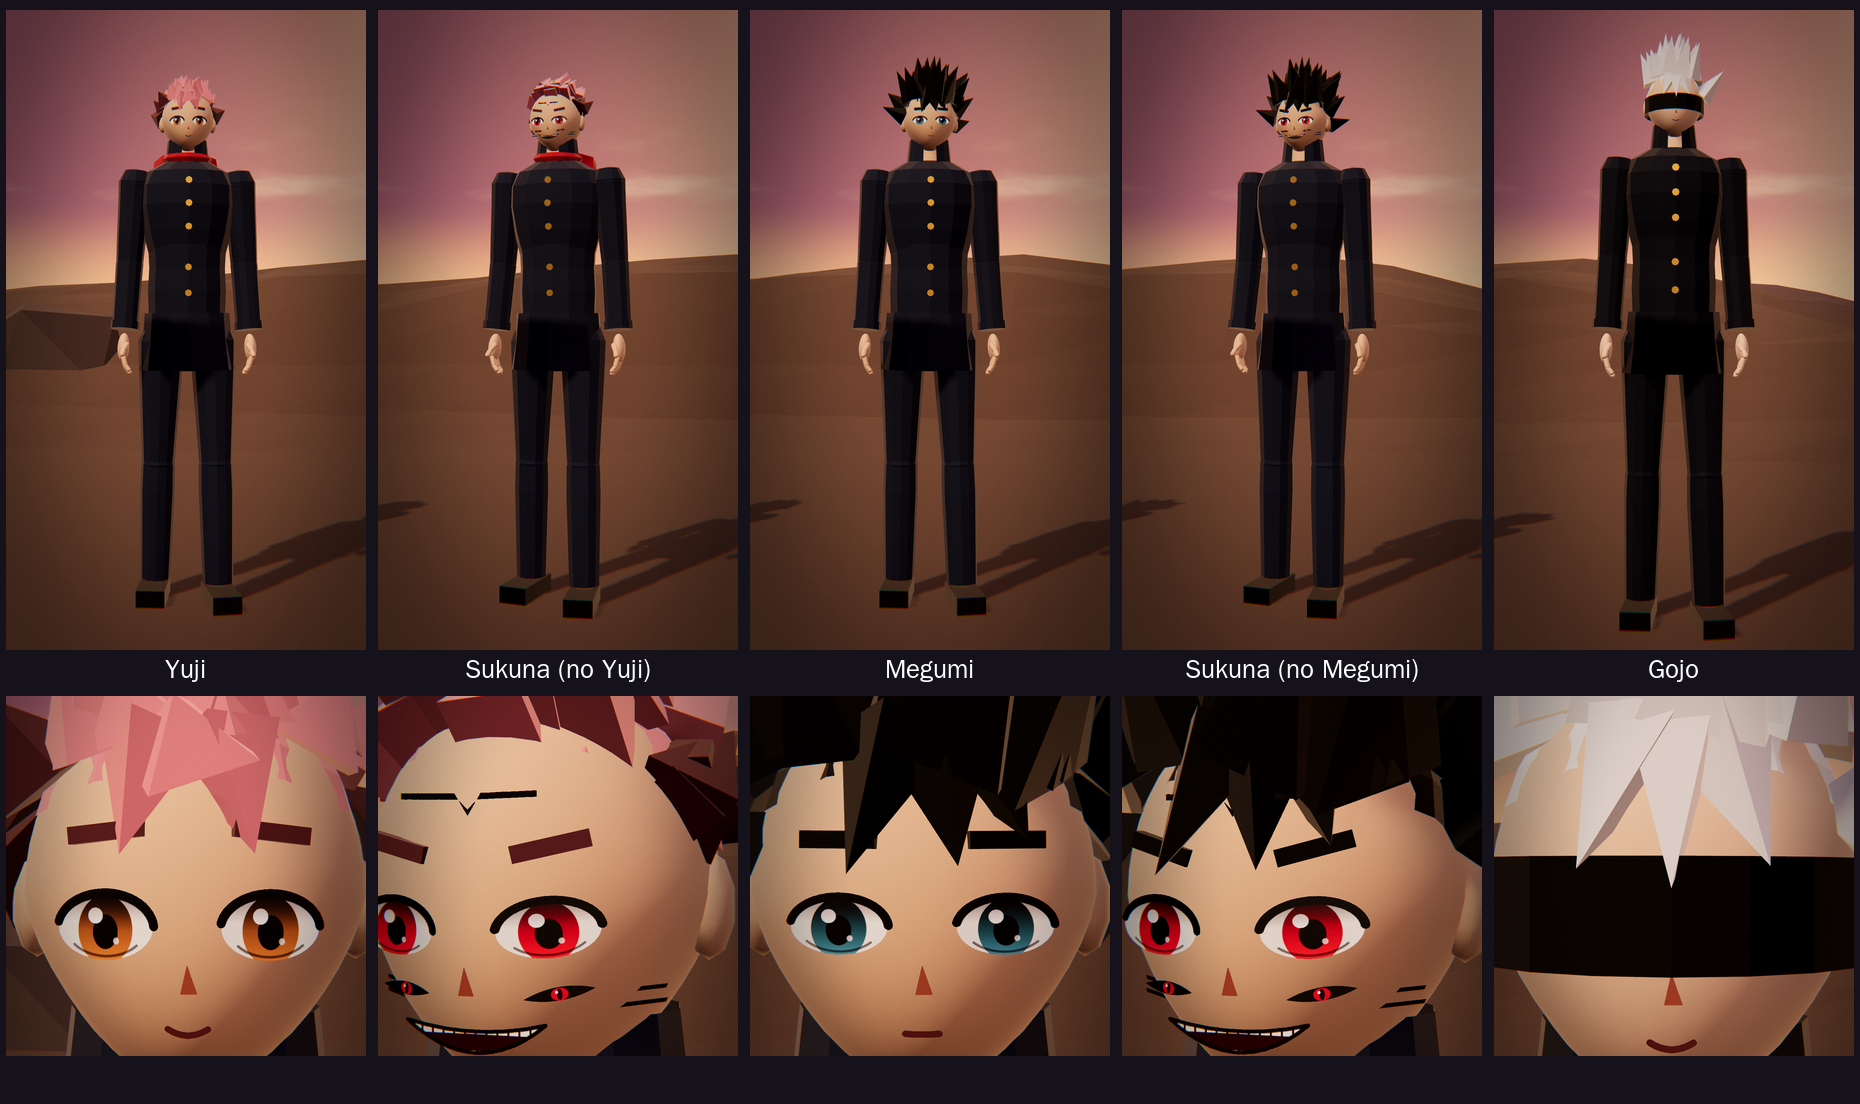
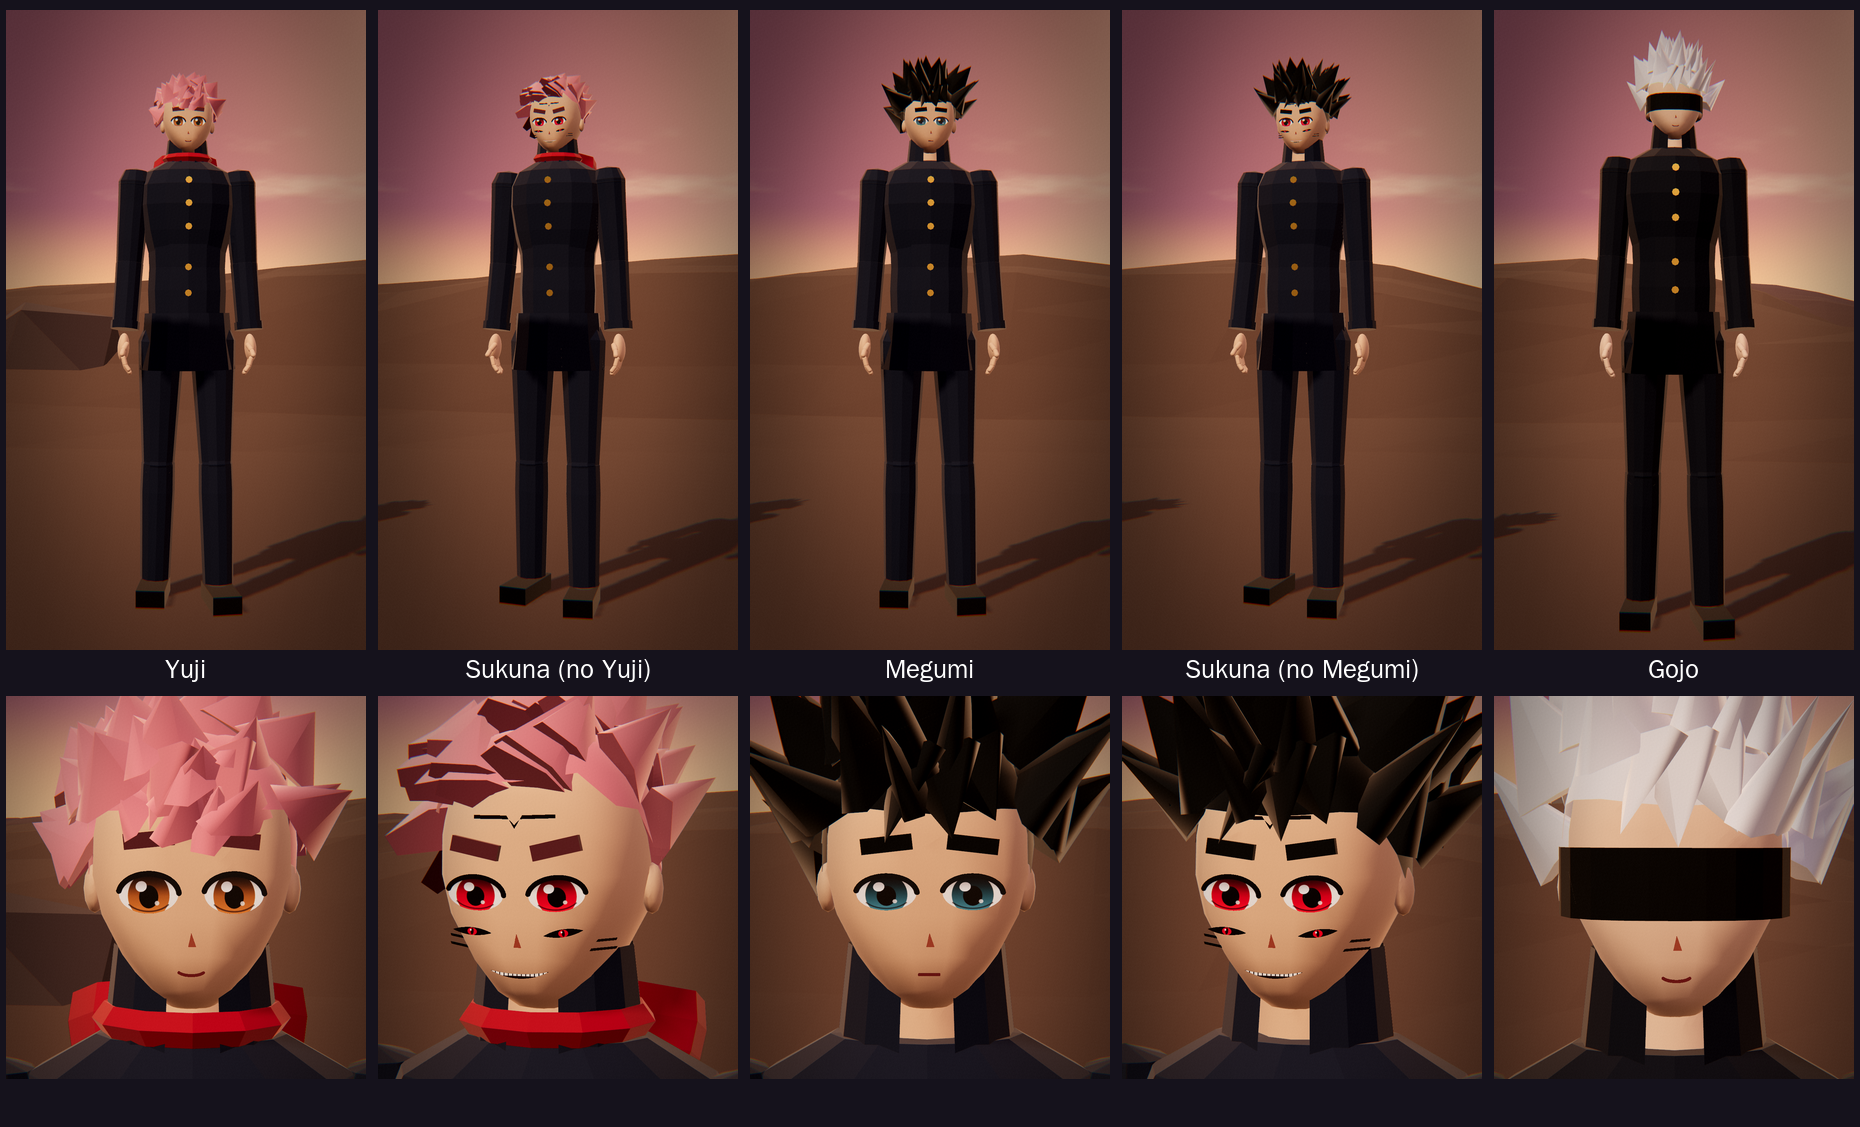
Rostos low-poly no formato da referência: quadrado arredondado, frente plana, mandíbula em escudo, sombreado liso, boca pequena
Claude-Session: https://claude.ai/code/session_01NohiMdkC2Su1SAJxQxprzv

diff --git a/tools/motor3d/lowpoly.js b/tools/motor3d/lowpoly.js
@@ -25,7 +25,7 @@ function olhoTex(iris, o = {}) {
     const cx = w / 2, cy = h * 0.56, rx = w * 0.4, ry = h * 0.34;
     c.save(); c.beginPath(); c.ellipse(cx, cy, rx, ry, 0, 0, Math.PI * 2); c.clip();
     c.fillStyle = o.esclera ?? "#fbf7f2"; c.fillRect(0, 0, w, h);
-    const ix = cx + (o.dx ?? 0), irx = w * (o.irisR ?? 0.23), iry = h * 0.36;
+    const ix = cx + (o.dx ?? 0), irx = w * (o.irisR ?? 0.28), iry = h * 0.4;
     const g = c.createLinearGradient(0, cy - iry, 0, cy + iry); g.addColorStop(0, corCSS(iris, -0.26)); g.addColorStop(0.55, corCSS(iris)); g.addColorStop(1, corCSS(iris, 0.2));
     c.fillStyle = g; c.beginPath(); c.ellipse(ix, cy + h * 0.03, irx, iry, 0, 0, Math.PI * 2); c.fill();
     c.fillStyle = "#120a0c"; c.beginPath();
@@ -44,16 +44,14 @@ const BOCAT = {};
 function bocaTex(tipo) {
   if (BOCAT[tipo]) return BOCAT[tipo];
   return (BOCAT[tipo] = canvasTex(256, 128, (c, w, h) => {
-    c.clearRect(0, 0, w, h); c.lineCap = "round"; const cx = w / 2, cy = h / 2;
-    if (tipo === "linha") { c.strokeStyle = "#5a2626"; c.lineWidth = 12; c.beginPath(); c.moveTo(cx - 32, cy); c.quadraticCurveTo(cx, cy + 3, cx + 32, cy); c.stroke(); }
-    else if (tipo === "sorriso") { c.strokeStyle = "#5a2626"; c.lineWidth = 12; c.beginPath(); c.moveTo(cx - 38, cy - 8); c.quadraticCurveTo(cx, cy + 16, cx + 38, cy - 8); c.stroke(); }
-    else if (tipo === "triste") { c.strokeStyle = "#5a2626"; c.lineWidth = 8; c.beginPath(); c.moveTo(cx - 28, cy + 6); c.quadraticCurveTo(cx, cy - 8, cx + 28, cy + 6); c.stroke(); }
-    else if (tipo === "aberta") { c.fillStyle = "#4a1418"; c.beginPath(); c.ellipse(cx, cy + 4, 28, 22, 0, 0, Math.PI * 2); c.fill(); c.fillStyle = "#c8586a"; c.beginPath(); c.ellipse(cx, cy + 16, 17, 8, 0, 0, Math.PI * 2); c.fill(); c.fillStyle = "#f4f0ea"; c.fillRect(cx - 18, cy - 15, 36, 7); }
-    else if (tipo === "risada") { // sorriso enorme com dentes (Sukuna)
-      const L = cx - 96, R = cx + 96, Y = cy - 22;
-      c.fillStyle = "#3a0c10"; c.beginPath(); c.moveTo(L, Y); c.quadraticCurveTo(cx, cy + 56, R, Y); c.quadraticCurveTo(cx, cy + 2, L, Y); c.fill();
-      c.save(); c.clip(); c.fillStyle = "#f6f2ea"; for (let i = 0; i < 12; i++) c.fillRect(cx - 88 + i * 15, cy - 22, 12, 15); for (let i = 0; i < 10; i++) c.fillRect(cx - 72 + i * 15, cy + 14, 12, 14); c.restore();
-      c.strokeStyle = "#1a0608"; c.lineWidth = 5; c.beginPath(); c.moveTo(L, Y); c.quadraticCurveTo(cx, cy + 56, R, Y); c.stroke(); c.beginPath(); c.moveTo(L, Y); c.quadraticCurveTo(cx, cy + 2, R, Y); c.stroke();
+    c.clearRect(0, 0, w, h); c.lineCap = "round"; c.lineJoin = "round"; const cx = w / 2, cy = h / 2, cor = "#6e2a28";
+    if (tipo === "linha") { c.fillStyle = cor; c.beginPath(); c.roundRect(cx - 52, cy - 7, 104, 14, 4); c.fill(); }
+    else if (tipo === "sorriso") { c.strokeStyle = cor; c.lineWidth = 14; c.beginPath(); c.moveTo(cx - 58, cy - 9); c.quadraticCurveTo(cx - 40, cy + 4, cx, cy + 5); c.quadraticCurveTo(cx + 40, cy + 4, cx + 58, cy - 9); c.stroke(); }
+    else if (tipo === "triste") { c.strokeStyle = cor; c.lineWidth = 13; c.beginPath(); c.moveTo(cx - 48, cy + 8); c.quadraticCurveTo(cx, cy - 8, cx + 48, cy + 8); c.stroke(); }
+    else if (tipo === "aberta") { c.fillStyle = "#3a0e12"; c.beginPath(); c.ellipse(cx, cy + 2, 34, 22, 0, 0, Math.PI * 2); c.fill(); c.fillStyle = "#b8485a"; c.beginPath(); c.ellipse(cx, cy + 14, 22, 9, 0, 0, Math.PI * 2); c.fill(); c.fillStyle = "#f2ede6"; c.beginPath(); c.roundRect(cx - 22, cy - 18, 44, 8, 3); c.fill(); }
+    else if (tipo === "risada") { // sorriso de canto a canto do Sukuna, fino, com a fileira de dentes
+      c.fillStyle = "#2a0a0e"; c.beginPath(); c.moveTo(cx - 96, cy - 14); c.quadraticCurveTo(cx, cy + 34, cx + 96, cy - 14); c.quadraticCurveTo(cx, cy + 6, cx - 96, cy - 14); c.fill();
+      c.save(); c.clip(); c.fillStyle = "#f4efe6"; for (let i = 0; i < 13; i++) c.fillRect(cx - 90 + i * 14, cy - 12, 11, 14); c.restore();
     }
   }));
 }
@@ -65,16 +63,30 @@ const bochechaTex = canvasTex(256, 128, (c, w, h) => { c.clearRect(0, 0, w, h); 
 const testaTex = canvasTex(256, 64, (c, w, h) => { c.clearRect(0, 0, w, h); c.fillStyle = "#16090c"; c.beginPath(); c.moveTo(14, 20); c.lineTo(w / 2 - 22, 22); c.lineTo(w / 2, 58); c.lineTo(w / 2 + 22, 22); c.lineTo(w - 14, 20); c.lineTo(w - 14, 30); c.lineTo(w / 2 + 16, 32); c.lineTo(w / 2, 48); c.lineTo(w / 2 - 16, 32); c.lineTo(14, 30); c.closePath(); c.fill(); });
 
 // ---------------------------------------------------------------- cabeça e cabelo
-function headGeoLP(o = {}) {
-  const g = new THREE.SphereGeometry(1, o.ws ?? 36, o.hs ?? 26);
-  const jaw = o.jaw ?? 0.38, chin = o.chin ?? 0.08;
-  deform(g, (v) => { if (v.y < 0) { const k = Math.pow(-v.y, 1.3); v.x *= 1 - jaw * k; v.z += chin * k * Math.max(0, v.z); } if (v.z < 0) v.z *= 1.05; });
-  g.scale(o.sx ?? 0.083, o.sy ?? 0.1, o.sz ?? 0.095); g.translate(0, o.cy ?? 0.11, 0); g.computeVertexNormals(); return g;
+// cabeça no formato da referência: quadrado arredondado (superelipsoide), frente reta, laterais retas e
+// mandíbula que afina num queixo rombudo (escudo). Facetada: a frente quase plana parece lisa, as laterais mostram os cortes.
+const HEAD = { a: 0.078, b: 0.106, c: 0.088, n: 2.9, cy: 0.11, jawY: -0.1, jaw: 0.5, frente: 0.86 };
+function superDir(d, n) { const s_ = Math.pow(Math.pow(Math.abs(d.x), n) + Math.pow(Math.abs(d.y), n) + Math.pow(Math.abs(d.z), n), -1 / n); return d.multiplyScalar(s_); }
+function headUnit(v, H = HEAD) { // ponto unitário da cabeça (antes da escala), com a mandíbula em escudo
+  superDir(v.normalize(), H.n);
+  if (v.z > H.frente) v.z = H.frente; // frente do rosto plana (olhos, nariz e boca num plano só, como na referência)
+  if (v.y < H.jawY) { const k = (H.jawY - v.y) / (1 + H.jawY); v.x *= 1 - H.jaw * Math.pow(k, 1.15); if (v.z < 0) v.z *= 1 - 0.3 * k; else v.z *= 1 - 0.08 * k; }
+  if (v.z < 0) v.z *= 1.04;
+  return v;
 }
-function espeto(parent, base, dir, len, r, mat) {
-  const geo = new THREE.ConeGeometry(r, len, 4, 1); geo.translate(0, len / 2, 0);
+function headGeoLP(o = {}) {
+  const H = { ...HEAD, ...o }, g = new THREE.SphereGeometry(1, o.ws ?? 14, o.hs ?? 12);
+  deform(g, (v) => { headUnit(v, H); v.set(v.x * H.a, H.cy + v.y * H.b, v.z * H.c); });
+  return g;
+}
+function espeto(parent, base, dir, len, r, mat, centro = null) {
+  const geo = new THREE.ConeGeometry(r, len, 6, 1); geo.translate(0, len / 2, 0);
   const m = mesh(geo, mat, base.x, base.y, base.z, parent);
-  m.quaternion.setFromUnitVectors(V3_(0, 1, 0), dir); m.rotateY(hash(base.x * 97.1 + base.z * 31.7) * 3);
+  m.quaternion.setFromUnitVectors(V3_(0, 1, 0), dir);
+  if (centro) { // chapa: o lado largo fica tangente à cabeça (a mecha deita em vez de virar espinho)
+    const rad = base.clone().sub(centro).normalize(), t = V3_().crossVectors(dir, rad); if (t.lengthSq() > 1e-6) { t.normalize(); const xw = V3_(1, 0, 0).applyQuaternion(m.quaternion); m.rotateY(Math.atan2(V3_().crossVectors(xw, t).dot(dir), xw.dot(t)) + Math.PI / 4); }
+    m.scale.set(1.45, 1, 0.55);
+  } else m.rotateY(hash(base.x * 97.1 + base.z * 31.7) * 3);
   return m;
 }
 function estiloDir(estilo, nrm, r) {
@@ -87,22 +99,32 @@ function estiloDir(estilo, nrm, r) {
   return v.normalize();
 }
 function cabeloLP(head, o) {
-  const ax = 0.086, ay = 0.108, az = 0.099, cy = 0.11, seed = o.seed ?? 0;
+  const H = HEAD, cy = H.cy, seed = o.seed ?? 0, fo = o.fofo ?? 1.05;
   const hg = grp(head, 0, cy, 0), hr = grp(hg, 0, -cy, 0); head.userData.hairG = hg; head.userData.hairLong = false;
-  const m = LPmat(o.cor, { rim: 1.2 }), m2 = o.raiz != null ? LPmat(o.raiz, { rim: 1 }) : m;
-  const capG = new THREE.SphereGeometry(1, 12, 7, 0, Math.PI * 2, 0, Math.PI * (o.capA ?? 0.44)); capG.scale(ax, ay, az);
-  const capM = mesh(capG, m, 0, cy, -0.003, hr); capM.rotation.x = o.capTilt ?? -0.4;
-  const P = (th, ph, k = 1) => V3_(Math.sin(th) * Math.sin(ph) * ax * k, cy + Math.cos(th) * ay * k, Math.sin(th) * Math.cos(ph) * az * k);
-  const n = o.n ?? 40, thMin = o.thMin ?? 0.06, thMax = o.thMax ?? 0.44;
-  for (let i = 0; i < n; i++) {
+  const m = LPmat(o.cor, { rim: 1.2, liso: true }), m2 = o.raiz != null ? LPmat(o.raiz, { rim: 1, liso: true }) : m;
+  const lf = o.linhaFrente ?? 0.4, lt = o.linhaTras ?? -0.4, acima = (u) => u.y > (lf + lt) / 2 + ((lf - lt) / 2) * u.z;
+  const toW = (u, k = 1) => V3_(u.x * H.a * k, cy + u.y * H.b * k, u.z * H.c * k);
+  // calota: a própria superfície da cabeça, um pouco maior, só acima da linha do cabelo
+  const cg = new THREE.SphereGeometry(1, 20, 16), pos = cg.attributes.position, U = [];
+  for (let i = 0; i < pos.count; i++) { const u = headUnit(V3_(pos.getX(i), pos.getY(i), pos.getZ(i))); U.push(u.clone()); const w = toW(u, fo); pos.setXYZ(i, w.x, w.y, w.z); }
+  const idx = cg.index.array, keep = [];
+  for (let i = 0; i < idx.length; i += 3) if (acima(U[idx[i]]) && acima(U[idx[i + 1]]) && acima(U[idx[i + 2]])) keep.push(idx[i], idx[i + 1], idx[i + 2]);
+  cg.setIndex(keep); cg.computeVertexNormals(); mesh(cg, LPmat(o.cor, { rim: 1.2, side: THREE.DoubleSide, liso: true }), 0, 0, 0, hr);
+  // espetos facetados nascendo da calota
+  const n = o.n ?? 40, thMin = o.thMin ?? 0.06, thMax = o.thMax ?? 0.5;
+  let made = 0;
+  for (let i = 0; i < n * 4 && made < n; i++) {
     const r1 = hash(i * 3.7 + seed), r2 = hash(i * 5.3 + seed), r3 = hash(i * 9.1 + seed);
-    const ph = (i / n) * Math.PI * 2 * 2.618 + (r1 - 0.5) * 0.5, front = Math.cos(ph) > 0.45;
-    const th = (thMin + r2 * (thMax - thMin) * (front ? o.frontK ?? 0.55 : 1)) * Math.PI;
-    const base = P(th, ph, 0.96), nrm = base.clone().sub(V3_(0, cy, 0)).normalize();
-    const len = (o.len ?? 0.07) * (0.7 + r3 * 0.6), rad = (o.r ?? 0.03) * (0.75 + r1 * 0.5);
-    espeto(hr, base, estiloDir(o.estilo, nrm, r3), len, rad, o.raiz != null && th > 0.33 * Math.PI && !front ? m2 : m);
+    const ph = i * 2.39996 + (r1 - 0.5) * 0.4, th = (thMin + r2 * (thMax - thMin)) * Math.PI;
+    const u = headUnit(V3_(Math.sin(th) * Math.sin(ph), Math.cos(th), Math.sin(th) * Math.cos(ph)));
+    if (!acima(u)) continue;
+    made++;
+    const front = u.z > 0.55, base = toW(u, fo * 0.98), nrm = u.clone().normalize();
+    const len = (o.len ?? 0.07) * (0.7 + r3 * 0.6) * (front ? o.frontLen ?? 1 : 1), rad = (o.r ?? 0.03) * (0.75 + r1 * 0.5);
+    espeto(hr, base, estiloDir(o.estilo, nrm, r3), len, rad, o.raiz != null && u.y < 0.15 && !front ? m2 : m, o.chapa === false ? null : V3_(0, cy, 0));
   }
-  (o.franja || []).forEach(([ph, len, lado]) => { const base = P(0.27 * Math.PI, ph, 0.98); espeto(hr, base, V3_(Math.sin(ph) * 0.6 + lado, -1, 0.5).normalize(), len, o.rFranja ?? 0.026, m); });
+  // franja: mechas caindo na testa
+  (o.franja || []).forEach(([ph, len, lado]) => { const u = headUnit(V3_(Math.sin(0.26 * Math.PI) * Math.sin(ph), Math.cos(0.26 * Math.PI), Math.sin(0.26 * Math.PI) * Math.cos(ph))); espeto(hr, toW(u, fo), V3_(Math.sin(ph) * 0.6 + lado, -1, 0.45).normalize(), len, o.rFranja ?? 0.026, m, o.chapa === false ? null : V3_(0, cy, 0)); });
   return hg;
 }
 
@@ -111,7 +133,7 @@ function perfilR(pts, y) { for (let i = 0; i < pts.length - 1; i++) if (y <= pts
 function pessoaLP(o = {}) {
   const P = { pele: 0xf2c8a6, olho: "#3a5a6a", roupa: 0x1b2232, calca: 0x1b2232, sapato: 0x141418, sola: 0xe4e0d8, botao: 0xd4aa50, seed: 1, scale: 1, ...o };
   const S = skeleton({ ...HUMANO, ...(o.dims || {}) });
-  const skin = LPmat(P.pele, { rim: 0.5, liso: true }), roupa = LPmat(P.roupa, { rim: 1 }), roupa2 = LPmat(P.roupa, { rim: 1, side: THREE.DoubleSide }), calca = LPmat(P.calca), sapato = LPmat(P.sapato, { rough: 0.5 }), botao = LPmat(P.botao, { metal: 0.6, rough: 0.35, rim: 0.4 });
+  const skin = LPmat(P.pele, { rim: 0.5, liso: true }), skinF = LPmat(P.pele, { rim: 0.5 }), roupa = LPmat(P.roupa, { rim: 1 }), roupa2 = LPmat(P.roupa, { rim: 1, side: THREE.DoubleSide }), calca = LPmat(P.calca), sapato = LPmat(P.sapato, { rough: 0.5 }), botao = LPmat(P.botao, { metal: 0.6, rough: 0.35, rim: 0.4 });
   const R = 12;
   // quadril, pernas e tênis
   mesh(sph(1, R, 6), calca, 0, -0.01, 0, S.hips).scale.set(0.15, 0.11, 0.11);
@@ -149,24 +171,24 @@ function pessoaLP(o = {}) {
   mesh(cyl(0.042, 0.048, 0.1, R), skin, 0, 0.03, 0, S.neck);
   const headM = mesh(headGeoLP(P.cabeca || {}), skin, 0, 0, 0);
   const zAt = (x, y) => surfZ(headM, x, y);
-  [-1, 1].forEach((k) => { const ea = mesh(sph(1, 6, 5), skin, k * 0.079, 0.104, -0.006); ea.scale.set(0.013, 0.026, 0.018); S.head.add(ea); });
+  [-1, 1].forEach((k) => { const ea = mesh(sph(1, 8, 6), skin, k * 0.078, 0.098, -0.012); ea.scale.set(0.009, 0.02, 0.013); S.head.add(ea); });
   // rosto: olhos (decalque), sobrancelhas, nariz, bocas
-  const EX = 0.035, EY = 0.1;
-  const olhos = P.venda ? [] : [-1, 1].map((k) => { const g = grp(S.head, k * EX, EY, zAt(k * EX, EY) + 0.003); g.rotation.set(0, k * 0.34, k * (P.olhoInc ?? 0)); decal(g, olhoTex(P.olho, { fenda: P.fenda }), 0.055, 0.041 * (P.olhoAlt ?? 1), 0, 0, 0); return g; });
-  const brows = [-1, 1].map((k) => { const y = EY + 0.035, rz0 = k * -0.1; const b = mesh(box(0.034, 0.0075, 0.006), LPmat(P.sobrancelha ?? (P.cabelo ? P.cabelo.cor : 0x222222)), k * EX, y, zAt(k * EX, y) + 0.002); b.rotation.set(0, k * 0.32, rz0); b.userData = { y0: y, rz0 }; S.head.add(b); b.visible = !P.venda; return b; });
-  decal(S.head, narizTex, 0.016, 0.018, 0, 0.076, zAt(0, 0.076) + 0.004);
-  const MY = 0.052, mz = zAt(0, MY) + 0.003;
+  const EX = 0.031, EY = 0.1;
+  const olhos = P.venda ? [] : [-1, 1].map((k) => { const g = grp(S.head, k * EX, EY, zAt(k * EX, EY) + 0.003); g.rotation.set(0, 0, k * (P.olhoInc ?? 0)); decal(g, olhoTex(P.olho, { fenda: P.fenda }), 0.054, 0.042 * (P.olhoAlt ?? 1), 0, 0, 0); return g; });
+  const brows = [-1, 1].map((k) => { const y = EY + 0.034, rz0 = k * -(0.1 + (P.brava ?? 0) * 0.25); const b = mesh(box(0.037, 0.0115, 0.006), LPmat(P.sobrancelha ?? (P.cabelo ? P.cabelo.cor : 0x222222)), k * EX, y, zAt(k * EX, y) + 0.002); b.rotation.set(0, 0, rz0); b.userData = { y0: y, rz0 }; S.head.add(b); b.visible = !P.venda; return b; });
+  decal(S.head, narizTex, 0.013, 0.015, 0, 0.064, zAt(0, 0.064) + 0.004);
+  const MY = 0.038, mz = zAt(0, MY) + 0.003;
   const bocas = {};
-  ["linha", "sorriso", "triste", "aberta"].forEach((t) => (bocas[t] = decal(S.head, bocaTex(t), 0.058, 0.029, 0, MY, mz)));
-  bocas.risada = decal(S.head, bocaTex("risada"), 0.086, 0.043, 0, MY - 0.002, mz + 0.001);
+  ["linha", "sorriso", "triste", "aberta"].forEach((t) => (bocas[t] = decal(S.head, bocaTex(t), 0.04, 0.02, 0, MY, mz)));
+  bocas.risada = decal(S.head, bocaTex("risada"), 0.062, 0.031, 0, MY, mz + 0.001);
   let extras = null;
   if (P.sukuna) { // marcas do Sukuna
-    extras = [-1, 1].map((k) => { const y = EY - 0.03, g = grp(S.head, k * 0.036, y, zAt(k * 0.036, y) + 0.003); g.rotation.set(0, k * 0.4, k * 0.12); decal(g, olhoExtraTex, 0.034, 0.013, 0, 0, 0); return g; });
-    [-1, 1].forEach((k) => { const g = grp(S.head, k * 0.057, 0.064, zAt(k * 0.057, 0.064) + 0.004); g.rotation.set(0, k * 0.62, 0); g.scale.x = k; decal(g, bochechaTex, 0.04, 0.02, 0, 0, 0); });
+    extras = [-1, 1].map((k) => { const y = EY - 0.03, g = grp(S.head, k * 0.035, y, zAt(k * 0.035, y) + 0.003); g.rotation.set(0, 0, k * 0.12); decal(g, olhoExtraTex, 0.034, 0.013, 0, 0, 0); return g; });
+    [-1, 1].forEach((k) => { const g = grp(S.head, k * 0.052, 0.058, zAt(k * 0.052, 0.058) + 0.004); g.rotation.set(0, k * 0.45, 0); g.scale.x = k; decal(g, bochechaTex, 0.04, 0.02, 0, 0, 0); });
     decal(S.head, testaTex, 0.07, 0.017, 0, EY + 0.052, zAt(0, EY + 0.052) + 0.004);
   }
   S.head.add(headM);
-  if (P.venda) { const v = mesh(new THREE.CylinderGeometry(1, 1, 0.046, 18, 1, true), LPmat(0x121216, { side: THREE.DoubleSide, rim: 0.6 }), 0, EY + 0.004, 0, S.head); v.scale.set(0.088, 1, 0.103); }
+  if (P.venda) { const vg = new THREE.CylinderGeometry(1, 1, 0.048, 28, 1, true); deform(vg, (v) => { const d = V3_(v.x, 0, v.z).normalize(), k_ = Math.pow(Math.pow(Math.abs(d.x), HEAD.n) + Math.pow(Math.abs(d.z), HEAD.n), -1 / HEAD.n); v.x = d.x * k_ * HEAD.a * 1.07; v.z = d.z * k_ * HEAD.c * (d.z < 0 ? 1.12 : 1.08); }); mesh(vg, LPmat(0x121216, { side: THREE.DoubleSide, rim: 0.6 }), 0, EY + 0.004, 0, S.head); }
   if (P.cabelo) cabeloLP(S.head, P.cabelo);
   S.head.scale.setScalar(P.cabecaEscala ?? 1.12); // cabeça um pouco maior (proporção de anime)
   S.root.scale.setScalar(P.scale);
@@ -192,7 +214,7 @@ function rostoLP(p, t, f = {}) {
 // ---------------------------------------------------------------- elenco: Jujutsu Kaisen (desenho próprio low-poly)
 const JJK = { navy: 0x232b3e, navy2: 0x181e2c, botao: 0xd4aa50 };
 function yujiLP(o = {}) { return pessoaLP({ seed: 11, pele: 0xf3c8a6, olho: "#a8642e", capuz: 0xb3262c, roupa: JJK.navy, calca: JJK.navy, sobrancelha: 0x6a3a40, cabelo: { cor: 0xe8909c, raiz: 0x5a2c34, estilo: "curto", n: 60, len: 0.042, r: 0.028, thMax: 0.5, franja: [[-0.24, 0.058, -0.12], [0.24, 0.058, 0.12]], seed: 3 }, ...o }); }
-function sukunaYujiLP(o = {}) { return yujiLP({ seed: 12, olho: "#c41e2a", olhoAlt: 0.85, olhoInc: 0.08, sukuna: true, cabelo: { cor: 0xe8909c, raiz: 0x5a2c34, estilo: "pratras", n: 44, len: 0.075, r: 0.03, capTilt: -0.55, seed: 4 }, ...o }); }
-function megumiLP(o = {}) { return pessoaLP({ seed: 21, pele: 0xf1c6a4, olho: "#2f5a66", olhoAlt: 0.86, roupa: JJK.navy, calca: JJK.navy, sobrancelha: 0x101216, cabelo: { cor: 0x101216, estilo: "ourico", n: 52, len: 0.085, r: 0.032, thMax: 0.5, franja: [[-0.18, 0.07, -0.22], [0.08, 0.064, 0.12], [0.34, 0.056, 0.3]], seed: 7 }, ...o }); }
+function sukunaYujiLP(o = {}) { return yujiLP({ seed: 12, olho: "#c41e2a", olhoAlt: 0.85, olhoInc: 0.08, sukuna: true, cabelo: { cor: 0xe8909c, raiz: 0x5a2c34, estilo: "pratras", n: 44, len: 0.075, r: 0.03, linhaFrente: 0.58, seed: 4 }, ...o }); }
+function megumiLP(o = {}) { return pessoaLP({ seed: 21, pele: 0xf1c6a4, olho: "#2f5a66", olhoAlt: 0.86, brava: 0.5, roupa: JJK.navy, calca: JJK.navy, sobrancelha: 0x101216, cabelo: { cor: 0x101216, estilo: "ourico", n: 52, len: 0.085, r: 0.032, thMax: 0.5, franja: [[-0.18, 0.07, -0.22], [0.08, 0.064, 0.12], [0.34, 0.056, 0.3]], seed: 7 }, ...o }); }
 function sukunaMegumiLP(o = {}) { return megumiLP({ seed: 22, olho: "#c41e2a", olhoInc: 0.08, sukuna: true, ...o }); }
 function gojoLP(o = {}) { return pessoaLP({ seed: 31, pele: 0xf4d0b4, venda: true, roupa: JJK.navy2, calca: JJK.navy2, scale: 1.08, cabelo: { cor: 0xf0f2f6, estilo: "pracima", n: 54, len: 0.09, r: 0.03, franja: [[-0.22, 0.07, -0.25], [0.0, 0.074, 0], [0.24, 0.068, 0.25]], seed: 9 }, ...o }); }

diff --git a/tools/cenas-teste/lp-personagens.js b/tools/cenas-teste/lp-personagens.js
@@ -19,7 +19,7 @@ addSet("teste", (g) => {
     cam() {
       const c = Math.max(1, window.TEST_CAM | 0), i = Math.floor((c - 1) / 2), x = X[Math.min(4, i)], sc = i === 4 ? 1.08 : 1;
       if ((c - 1) % 2 === 0) return { pos: [x + 0.4, 1.0 * sc, 3.5], look: [x, 0.96 * sc, 0], fov: 36 };
-      return { pos: [x + 0.13, 1.72 * sc, 0.7], look: [x, 1.7 * sc, 0], fov: 28, near: 0.02 };
+      return { pos: [x + 0.16, 1.74 * sc, 1.05], look: [x, 1.66 * sc, 0], fov: 30, near: 0.02 };
     },
   };
 });
